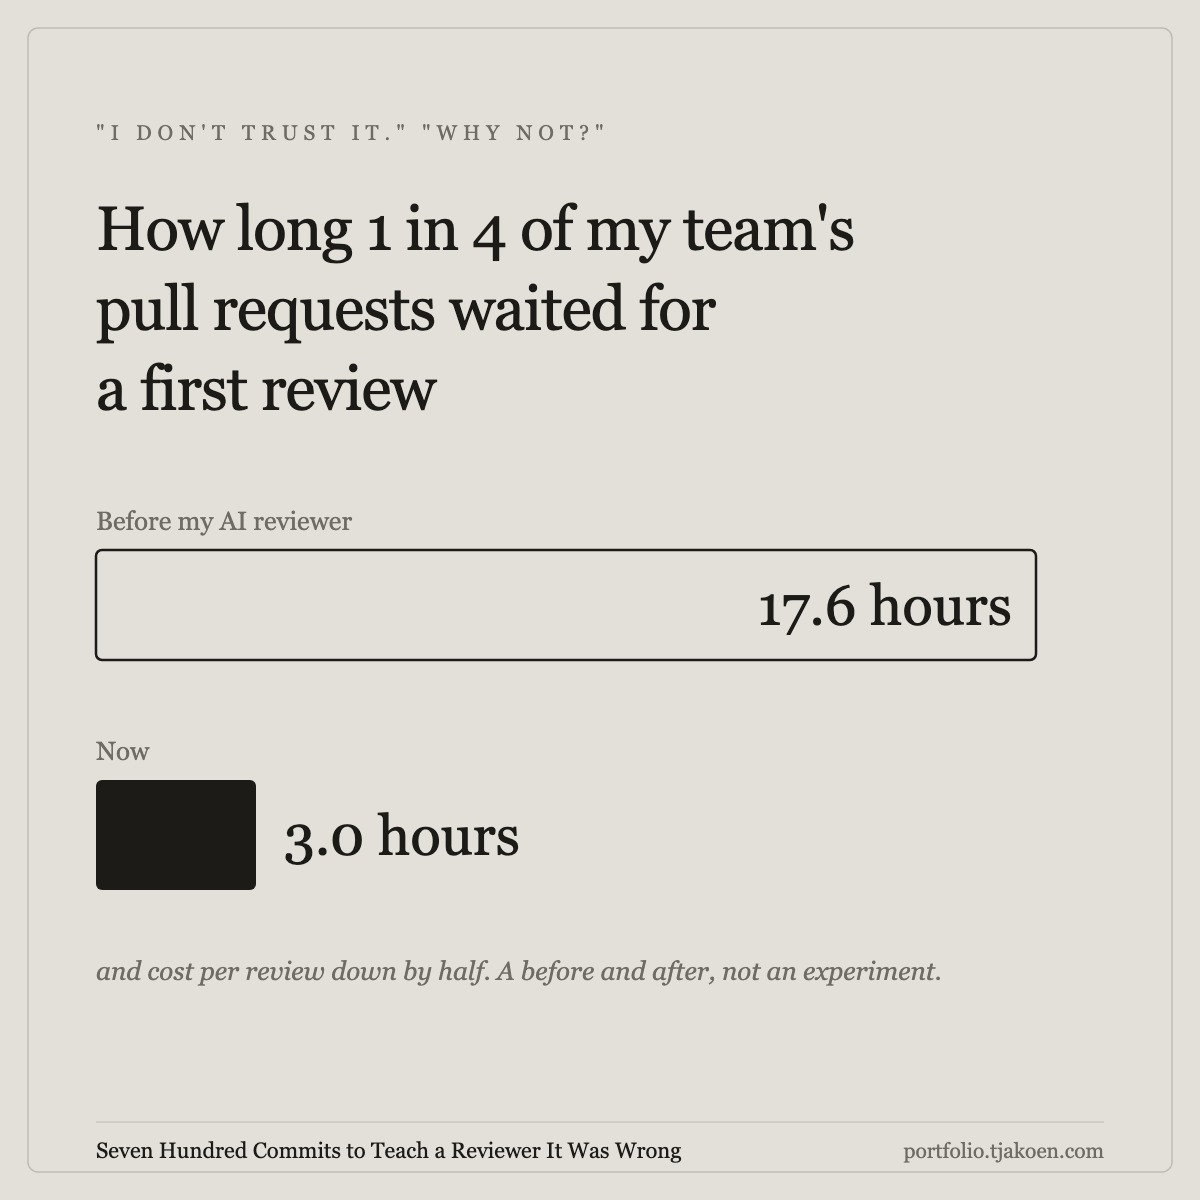
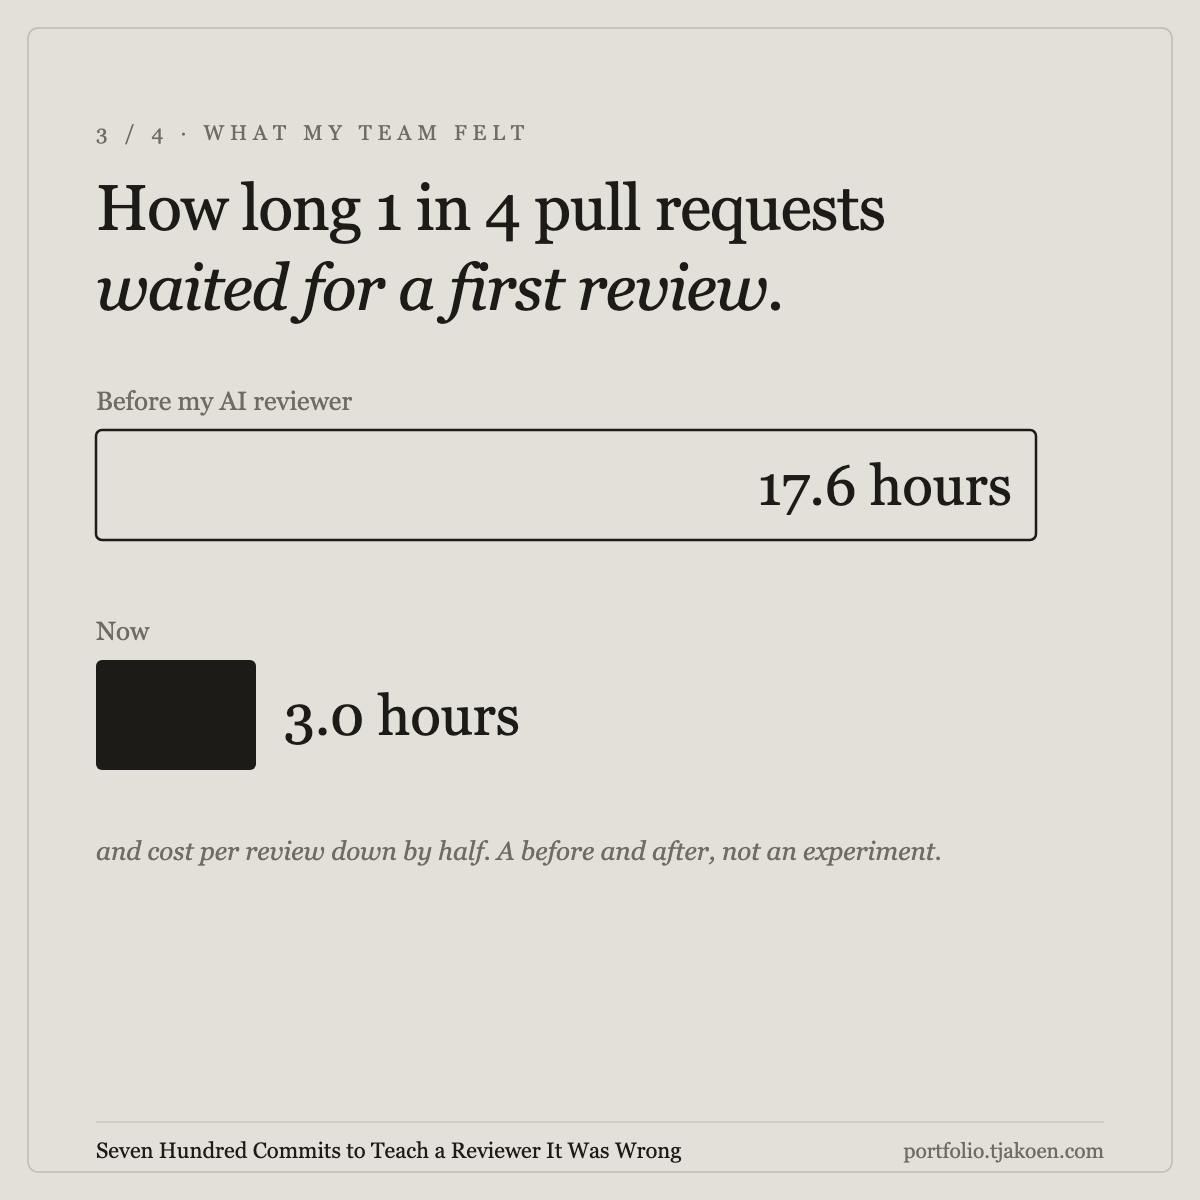
Make the review kit's four social cards read as one set
Numbered kickers, one headline position, the same paper ground on all four, and no line repeated
between cards. The board card is light like the others and cropped to the board alone.

diff --git a/tools/social-card-reviewer.ts b/tools/social-card-reviewer.ts
@@ -26,7 +26,7 @@ ${inner}
 
 // A: the question, big
 const A=frame(`
-<text x="96" y="140" style="fill:${MUTED};font-size:21px;letter-spacing:6px">ME, TO MY DIRECTOR, ABOUT MY AI CODE REVIEWER</text>
+<text x="96" y="140" style="fill:${MUTED};font-size:21px;letter-spacing:6px">1 / 4 · THE QUESTION THAT STARTED IT</text>
 <text x="90" y="400" style="fill:${INK};font-size:150px;letter-spacing:-4px">"I don't</text>
 <text x="90" y="560" style="fill:${INK};font-size:150px;letter-spacing:-4px">trust it."</text>
 <text x="90" y="800" style="fill:${INK};font-size:190px;letter-spacing:-5px;font-style:italic">"Why not?"</text>
@@ -36,22 +36,21 @@ const A=frame(`
 // B: the wait, as a chart
 const sc=(h:number)=>Math.round(h/17.6*940);
 const B=frame(`
-<text x="96" y="140" style="fill:${MUTED};font-size:21px;letter-spacing:6px">"I DON'T TRUST IT." "WHY NOT?"</text>
-<text x="96" y="250" style="fill:${INK};font-size:62px;letter-spacing:-1px">How long 1 in 4 of my team's</text>
-<text x="96" y="330" style="fill:${INK};font-size:62px;letter-spacing:-1px">pull requests waited for</text>
-<text x="96" y="410" style="fill:${INK};font-size:62px;letter-spacing:-1px">a first review</text>
-<text x="96" y="530" style="fill:${MUTED};font-size:26px">Before my AI reviewer</text>
-<rect x="96" y="550" width="${sc(17.6)}" height="110" rx="6" style="fill:none;stroke:${INK};stroke-width:2.5"/>
-<text x="${96+sc(17.6)-24}" y="625" text-anchor="end" style="fill:${INK};font-size:56px">17.6 hours</text>
-<text x="96" y="760" style="fill:${MUTED};font-size:26px">Now</text>
-<rect x="96" y="780" width="${sc(3.0)}" height="110" rx="6" style="fill:${INK}"/>
-<text x="${96+sc(3.0)+28}" y="855" style="fill:${INK};font-size:56px">3.0 hours</text>
-<text x="96" y="980" style="fill:${MUTED};font-size:26px;font-style:italic">and cost per review down by half. A before and after, not an experiment.</text>`);
+<text x="96" y="140" style="fill:${MUTED};font-size:21px;letter-spacing:6px">3 / 4 · WHAT MY TEAM FELT</text>
+<text x="96" y="230" style="fill:${INK};font-size:64px;letter-spacing:-1px">How long 1 in 4 pull requests</text>
+<text x="96" y="310" style="fill:${INK};font-size:64px;letter-spacing:-1px;font-style:italic">waited for a first review.</text>
+<text x="96" y="410" style="fill:${MUTED};font-size:26px">Before my AI reviewer</text>
+<rect x="96" y="430" width="${sc(17.6)}" height="110" rx="6" style="fill:none;stroke:${INK};stroke-width:2.5"/>
+<text x="${96+sc(17.6)-24}" y="505" text-anchor="end" style="fill:${INK};font-size:56px">17.6 hours</text>
+<text x="96" y="640" style="fill:${MUTED};font-size:26px">Now</text>
+<rect x="96" y="660" width="${sc(3.0)}" height="110" rx="6" style="fill:${INK}"/>
+<text x="${96+sc(3.0)+28}" y="735" style="fill:${INK};font-size:56px">3.0 hours</text>
+<text x="96" y="860" style="fill:${MUTED};font-size:26px;font-style:italic">and cost per review down by half. A before and after, not an experiment.</text>`);
 
 // C: the loop, drawn
 const stamp=(x:number,y:number,t:string,rot:number,dark=false)=>`<g transform="rotate(${rot} ${x} ${y})"><rect x="${x-80}" y="${y-30}" width="160" height="60" rx="6" style="fill:${dark?INK:"none"};stroke:${INK};stroke-width:3"/><text x="${x}" y="${y+12}" text-anchor="middle" style="fill:${dark?PAPER:INK};font-size:32px;letter-spacing:3px">${t}</text></g>`;
 const C=frame(`
-<text x="96" y="140" style="fill:${MUTED};font-size:21px;letter-spacing:6px">HOW MY AI CODE REVIEWER LEARNS</text>
+<text x="96" y="140" style="fill:${MUTED};font-size:21px;letter-spacing:6px">2 / 4 · HOW IT LEARNS</text>
 <text x="96" y="230" style="fill:${INK};font-size:64px;letter-spacing:-1px">Every comment it leaves</text>
 <text x="96" y="310" style="fill:${INK};font-size:64px;letter-spacing:-1px;font-style:italic">gets graded.</text>
 <rect x="250" y="400" width="700" height="250" rx="12" style="fill:${PAPER};stroke:${INK};stroke-width:2"/>
@@ -67,17 +66,17 @@ ${stamp(300,690,"WRONG",6)}
 <path d="M300,800 C130,760 120,560 245,525" style="fill:none;stroke:${MUTED};stroke-width:2.5" marker-end="url(#arr)"/>
 <text x="600" y="830" text-anchor="middle" style="fill:${INK};font-size:34px">the lens that missed gets fixed,</text>
 <text x="600" y="880" text-anchor="middle" style="fill:${INK};font-size:34px">then replayed on the commit it missed</text>
-<text x="96" y="1000" style="fill:${MUTED};font-size:26px">It started with my director asking, "Why not?"</text>`);
+<text x="96" y="1000" style="fill:${MUTED};font-size:26px">Every miss becomes a test it has to pass next time.</text>`);
 
 // D: the board, cleaner, dark full-bleed
 const D=frame(`
-<defs><clipPath id="c"><rect x="60" y="300" width="1080" height="640" rx="14"/></clipPath></defs>
-<text x="96" y="150" style="fill:${PAPER};font-size:66px;letter-spacing:-1.5px">"I don't trust it."</text>
-<text x="96" y="236" style="fill:${PAPER};font-size:66px;letter-spacing:-1.5px;font-style:italic">"Why not?"</text>
-<g clip-path="url(#c)"><image href="${shot}" x="-345" y="300" width="2160" height="750" preserveAspectRatio="xMinYMin slice"/></g>
-<rect x="60" y="300" width="1080" height="640" rx="14" style="fill:none;stroke:rgba(226,224,216,.35);stroke-width:2"/>
-<text x="96" y="1010" style="fill:${PAPER};font-size:30px">Three months later, it reviews my team's pull requests on its own.</text>
-<text x="96" y="1056" style="fill:${MUTED};font-size:22px;font-style:italic">the real board, on invented pull requests</text>`,INK);
+<defs><clipPath id="c"><rect x="96" y="400" width="1008" height="560" rx="12"/></clipPath></defs>
+<text x="96" y="140" style="fill:${MUTED};font-size:21px;letter-spacing:6px">4 / 4 · WHAT IT LOOKS LIKE</text>
+<text x="96" y="230" style="fill:${INK};font-size:64px;letter-spacing:-1px">It reviews my team's</text>
+<text x="96" y="310" style="fill:${INK};font-size:64px;letter-spacing:-1px;font-style:italic">pull requests on its own.</text>
+<g clip-path="url(#c)"><image href="${shot}" x="-268" y="400" width="2016" height="700" preserveAspectRatio="xMinYMin slice"/></g>
+<rect x="96" y="400" width="1008" height="560" rx="12" style="fill:none;stroke:${INK};stroke-width:2"/>
+<text x="96" y="1010" style="fill:${MUTED};font-size:24px;font-style:italic">The real board, on invented pull requests. Approval still stays with me.</text>`);
 
 const b=await chromium.launch();
 try{const pg=await b.newPage({viewport:{width:W,height:H}});

diff --git a/content/notes/the-reviewer-that-learned-to-be-wrong.md b/content/notes/the-reviewer-that-learned-to-be-wrong.md
@@ -41,9 +41,9 @@ socialImage:
   - "/media/notes/the-reviewer-that-learned-to-be-wrong-social-4-board.png"
 socialImageAlt:
   - "The question that started it, set large: \"I don't trust it.\" and \"Why not?\", with the answer three months later: I don't re-read its reviews any more."
-  - "How the reviewer learns: a review comment stamped FIXED and WRONG, with arrows around it. The lens that missed gets fixed, then replayed on the commit it missed."
+  - "How the reviewer learns: a review comment stamped FIXED and WRONG, with arrows around it. The lens that missed gets fixed, then replayed on the commit it missed. Every miss becomes a test it has to pass next time."
   - "Two bars for how long 1 in 4 of the team's pull requests waited for a first review: 17.6 hours before the reviewer, 3.0 hours now, with cost per review down by half."
-  - "The real review board on invented pull requests, in columns for queued, in flight and waiting on author, under the question that started it."
+  - "Card four of four: the real review board on invented pull requests, in columns for queued, in flight and waiting on author, under the line: it reviews my team's pull requests on its own. Approval still stays with me."
 ---
 
 My PR review kit is a set of Claude skills that reviews my team's pull requests at [Career Team](https://careerteam.com) the
